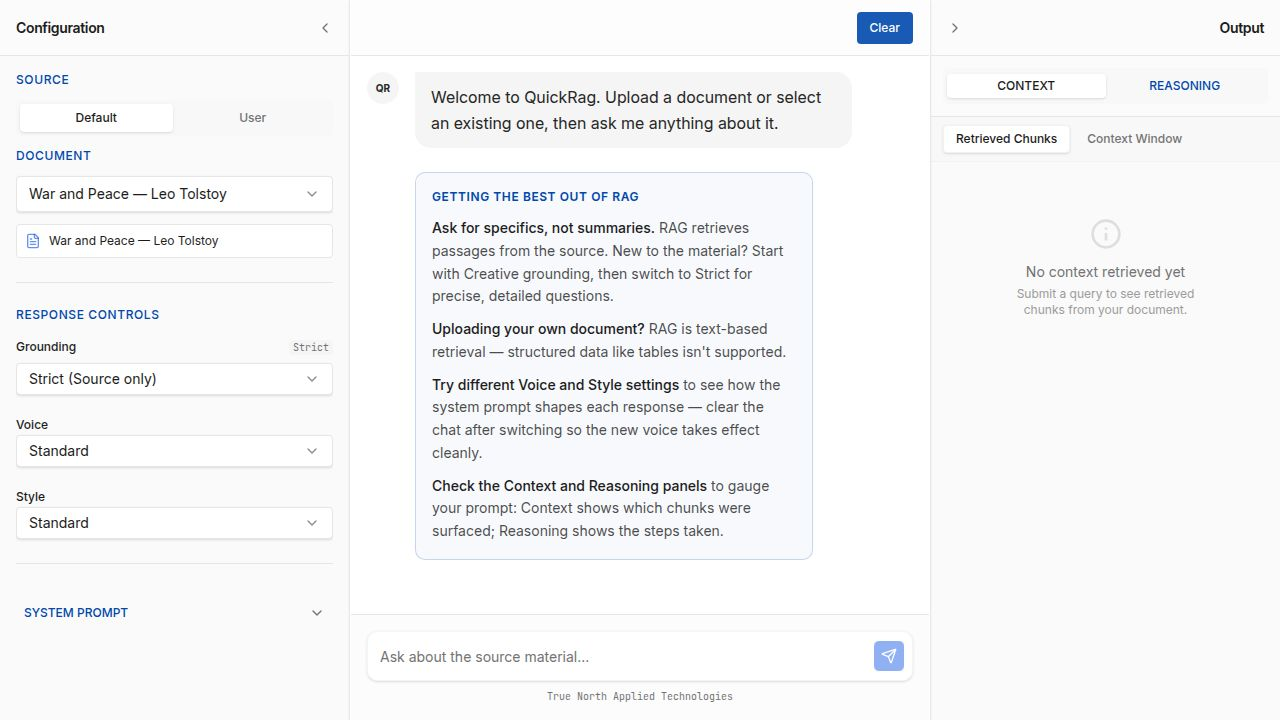
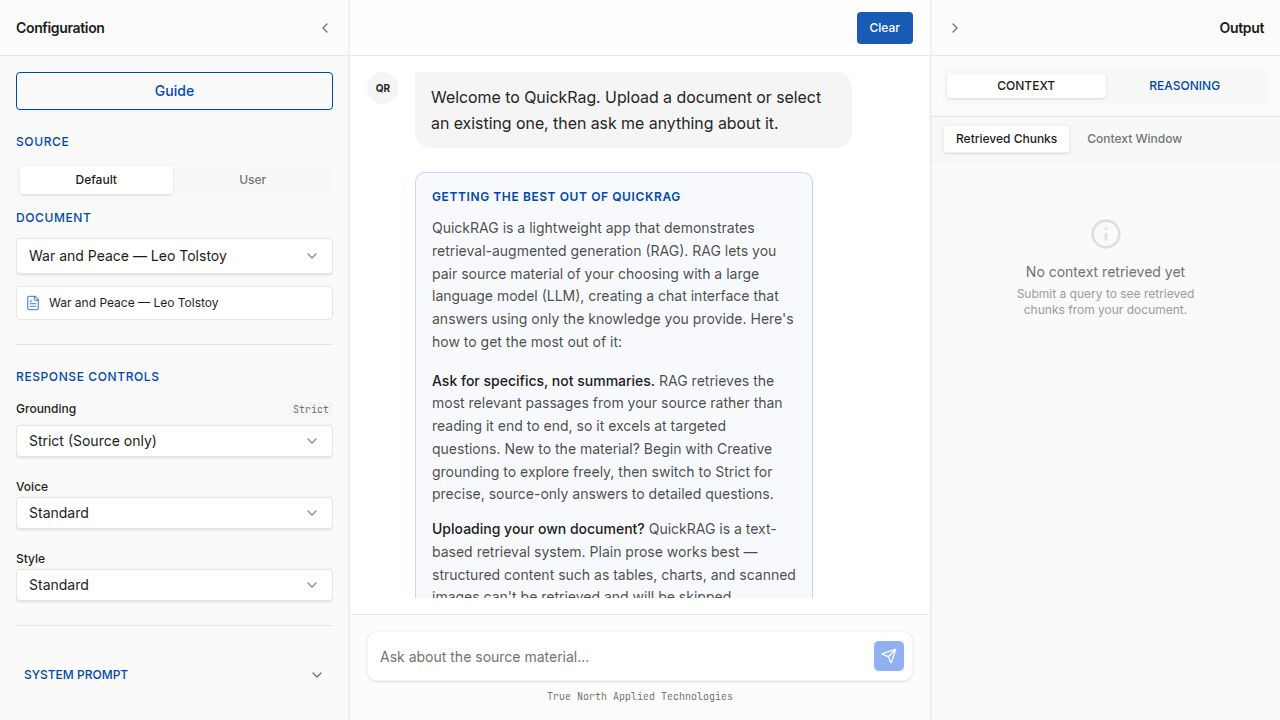
Improve PDF upload reliability and concurrency handling
Refactor document creation to use a transactional approach with advisory locks for atomic slot reservation and document persistence, update PDF parsing to correctly extract text from `TextResult` objects, and enhance error messages for invalid PDFs.

Replit-Commit-Author: Agent
Replit-Commit-Session-Id: dbd0ea1b-b4e4-4467-bb69-363521eb9059
Replit-Commit-Checkpoint-Type: full_checkpoint
Replit-Commit-Event-Id: 5bbc64a9-f79f-4cf3-90e2-88822da927c0
Replit-Commit-Screenshot-Url: https://storage.googleapis.com/screenshot-production-us-central1/91f979a2-7d13-41c1-9978-5a1f1f1a4b5b/dbd0ea1b-b4e4-4467-bb69-363521eb9059/3q0IQ2e
Replit-Helium-Checkpoint-Created: true

diff --git a/server/storage.ts b/server/storage.ts
@@ -3,6 +3,10 @@ import { documents, chunks, conversations, messages, uploadLog } from "@shared/s
 import type { Document, InsertDocument, Chunk, InsertChunk, Conversation, Message } from "@shared/schema";
 import { eq, desc, sql, gt, ne } from "drizzle-orm";
 
+// Fixed key for the transaction-scoped advisory lock that serializes daily
+// upload-slot reservations (see createDocumentWithSlot).
+const UPLOAD_SLOT_LOCK_KEY = 728931;
+
 export interface IStorage {
   createDocument(doc: InsertDocument): Promise<Document>;
   getDocument(id: number): Promise<Document | undefined>;
@@ -25,6 +29,12 @@ export interface IStorage {
   logUpload(): Promise<void>;
   getUploadCountLast24h(): Promise<number>;
   tryLogUploadAtomic(): Promise<boolean>;
+  createDocumentWithSlot(
+    doc: InsertDocument,
+    texts: string[],
+    sourceLabels: string[] | undefined,
+    enforceLimit: boolean,
+  ): Promise<{ status: "ok"; doc: Document; chunks: Chunk[] } | { status: "limit" }>;
   deleteNonDefaultDocuments(): Promise<number[]>;
 }
 
@@ -166,6 +176,54 @@ class DatabaseStorage implements IStorage {
       RETURNING id
     `);
     return (result as any).length > 0 || (result as any).rowCount > 0;
+  }
+
+  async createDocumentWithSlot(
+    doc: InsertDocument,
+    texts: string[],
+    sourceLabels: string[] | undefined,
+    enforceLimit: boolean,
+  ): Promise<{ status: "ok"; doc: Document; chunks: Chunk[] } | { status: "limit" }> {
+    const oneDayAgo = new Date(Date.now() - 24 * 60 * 60 * 1000);
+    return db.transaction(async (tx) => {
+      // Serialize concurrent upload reservations with a transaction-scoped
+      // advisory lock so the count-check + insert below cannot race (two
+      // callers both reading count=0 and each inserting a row). The lock is
+      // released automatically when the transaction commits or rolls back.
+      await tx.execute(sql`SELECT pg_advisory_xact_lock(${UPLOAD_SLOT_LOCK_KEY})`);
+
+      // Reserve the daily slot inside the transaction. When enforcing the
+      // limit, the insert only succeeds if under the daily cap; otherwise
+      // (owner uploads) the row is always inserted for tracking. If document
+      // or chunk persistence fails below, the whole transaction — including
+      // this slot reservation — rolls back, so only successful uploads count.
+      const reserve = enforceLimit
+        ? await tx.execute(sql`
+            INSERT INTO upload_log (uploaded_at)
+            SELECT NOW()
+            WHERE (SELECT COUNT(*) FROM upload_log WHERE uploaded_at > ${oneDayAgo}) < 1
+            RETURNING id
+          `)
+        : await tx.execute(sql`
+            INSERT INTO upload_log (uploaded_at)
+            SELECT NOW()
+            RETURNING id
+          `);
+      const reserved = (reserve as any).length > 0 || (reserve as any).rowCount > 0;
+      if (enforceLimit && !reserved) {
+        return { status: "limit" as const };
+      }
+
+      const [createdDoc] = await tx.insert(documents).values(doc).returning();
+      const values = texts.map((content, i) => ({
+        documentId: createdDoc.id,
+        content,
+        chunkIndex: i,
+        source: sourceLabels?.[i] || null,
+      }));
+      const createdChunks = await tx.insert(chunks).values(values).returning();
+      return { status: "ok" as const, doc: createdDoc, chunks: createdChunks };
+    });
   }
 
   async deleteNonDefaultDocuments(): Promise<number[]> {

diff --git a/server/routes.ts b/server/routes.ts
@@ -64,16 +64,7 @@ export async function registerRoutes(
 
       const MAX_PDF_SIZE = 10 * 1024 * 1024;
       if (pdfBuffer.length > MAX_PDF_SIZE) {
-        return res.status(400).json({ error: "PDF exceeds 10MB size limit." });
-      }
-
-      if (!isOwner) {
-        const logged = await storage.tryLogUploadAtomic();
-        if (!logged) {
-          return res.status(429).json({
-            error: "Upload limit reached (1 per day). Try again tomorrow.",
-          });
-        }
+        return res.status(400).json({ error: "This PDF is larger than the 10MB limit. Please upload a smaller file." });
       }
 
       const { PDFParse } = await import("pdf-parse");
@@ -82,10 +73,11 @@ export async function registerRoutes(
       try {
         const pdfUint8 = new Uint8Array(pdfBuffer);
         const parser = new PDFParse(pdfUint8);
-        extractedText = await parser.getText();
+        const textResult = await parser.getText();
+        extractedText = textResult.text;
       } catch (pdfErr) {
         console.error("PDF parse error:", pdfErr);
-        return res.status(400).json({ error: "Failed to parse PDF. Please ensure the file is a valid PDF." });
+        return res.status(400).json({ error: "We couldn't read this file as a PDF. Please make sure it's a valid, unencrypted PDF." });
       }
 
       const cleanedText = cleanPdfText(extractedText);
@@ -94,17 +86,30 @@ export async function registerRoutes(
 
       if (!cleanedText || cleanedText.length < 100 || (alphaRatio < 0.3 && cleanedText.length < 500)) {
         return res.status(400).json({
-          error: "This PDF contains mostly images, tables, or scanned content with very little extractable text. Text-heavy PDFs work best.",
+          error: "This PDF is mostly images, tables, or scanned pages, so there's too little text to use. Text-based PDFs work best.",
         });
       }
 
-      const doc = await storage.createDocument({ name, content: cleanedText });
+      // Reserve the daily slot, create the document, and persist its chunks in a
+      // single transaction (only after the PDF has passed validation). A rejected
+      // file never reaches this point, and if persistence fails the slot is rolled
+      // back — so only successful uploads consume a non-owner's daily upload.
       const textChunks = chunkText(cleanedText);
-      const dbChunks = await storage.createChunks(doc.id, textChunks);
+      const result = await storage.createDocumentWithSlot(
+        { name, content: cleanedText },
+        textChunks,
+        undefined,
+        !isOwner,
+      );
 
-      if (isOwner) {
-        await storage.logUpload();
+      if (result.status === "limit") {
+        return res.status(429).json({
+          error: "Upload limit reached (1 per day). Try again tomorrow.",
+        });
       }
+
+      const doc = result.doc;
+      const dbChunks = result.chunks;
 
       res.status(201).json({ ...doc, chunkCount: textChunks.length });
 

diff --git a/.agents/memory/pdf-parse-gettext.md b/.agents/memory/pdf-parse-gettext.md
@@ -1,0 +1,10 @@
+---
+name: pdf-parse getText returns TextResult
+description: pdf-parse v2 getText() resolves to an object, not a string — extract .text before string ops
+---
+
+`PDFParse(...).getText()` resolves to a `TextResult` object: `{ pages: PageTextResult[], text: string, total: number }`. The concatenated document string is on `.text`.
+
+**Why:** Assigning the result directly to a `string` and passing it to a string helper (e.g. a text-cleaner that calls `.split`) throws `raw.split is not a function` at runtime and 500s the request. In QuickRag this silently broke every parseable PDF upload (the request 500'd *after* the daily upload slot was consumed), which looked like a rate-limit bug. TypeScript also flags it (`Type 'TextResult' is not assignable to type 'string'`).
+
+**How to apply:** Always use `const result = await parser.getText(); const text = result.text;` before any string processing. Treat a pre-existing tsc "TextResult not assignable to string" error as a real latent runtime bug, not noise.

diff --git a/.agents/memory/MEMORY.md b/.agents/memory/MEMORY.md
@@ -1,0 +1,1 @@
+- [pdf-parse getText returns TextResult](pdf-parse-gettext.md) — `getText()` resolves to a `TextResult` object, not a string; use `.text` or downstream string ops throw.